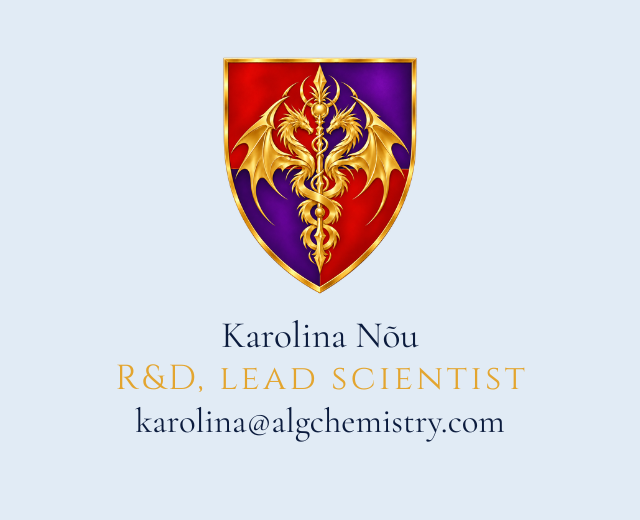
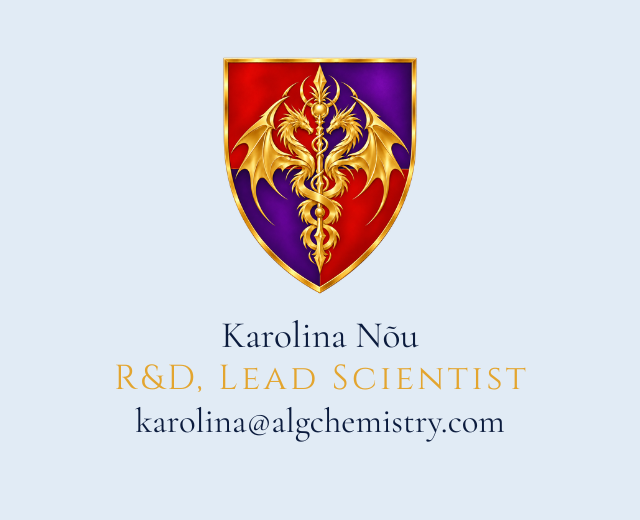
Business cards: redone versions; alt texts match

Changed region(s): [[0.3438, 0.7077, 0.8125, 0.7692], [0.1875, 0.7077, 0.3125, 0.7692]]

diff --git a/index.html b/index.html
@@ -206,10 +206,10 @@ a.kaart{display:block; position:relative; overflow:hidden; width:100%; max-width
   <section id="contact" class="hele">
     <div class="raam">
       <div class="kaardid">
-        <a class="kaart" href="#contact" data-u="ovrat" aria-label="Email Tarvo Nurmeots"><img src="images/tarvo.png" alt="Tarvo Nurmeots, Team leadership" width="640" height="520"></a>
-        <a class="kaart" href="#contact" data-u="ruhav" aria-label="Email Vahur Kivisikk"><img src="images/vahur.png" alt="Vahur Kivisikk, PR &amp; partnerships" width="640" height="520"></a>
-        <a class="kaart" href="#contact" data-u="imed" aria-label="Email Demi Vaarask"><img src="images/demi.png" alt="Demi Vaarask, Project &amp; product lead" width="640" height="520"></a>
-        <a class="kaart" href="#contact" data-u="anilorak" aria-label="Email Karolina Nõu"><img src="images/karolina.png" alt="Karolina Nõu, R&amp;D, lead scientist" width="640" height="520"></a>
+        <a class="kaart" href="#contact" data-u="ovrat" aria-label="Email Tarvo Nurmeots"><img src="images/tarvo.png" alt="Tarvo Nurmeots, Team Leadership" width="640" height="520"></a>
+        <a class="kaart" href="#contact" data-u="ruhav" aria-label="Email Vahur Kivisikk"><img src="images/vahur.png" alt="Vahur Kivisikk, PR &amp; Partnerships" width="640" height="520"></a>
+        <a class="kaart" href="#contact" data-u="imed" aria-label="Email Demi Vaarask"><img src="images/demi.png" alt="Demi Vaarask, Project &amp; Product Lead" width="640" height="520"></a>
+        <a class="kaart" href="#contact" data-u="anilorak" aria-label="Email Karolina Nõu"><img src="images/karolina.png" alt="Karolina Nõu, R&amp;D, Lead Scientist" width="640" height="520"></a>
       </div>
     </div>
   </section>
